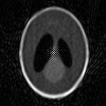
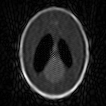
Add results

diff --git a/scripts/MAP2D.m b/scripts/MAP2D.m
@@ -17,7 +17,7 @@ max_angle_err = 1;
 max_shift_err = 1;
 resolution_angle = 0.5;
 resolution_space = 1;
-no_of_iterations = 5;
+no_of_iterations = 3;
 mask=ones(size(P));
 n = size(P, 1);
 L_pad = 260; 
@@ -129,7 +129,7 @@ noise_estimate = mean(noise_estimate(:));
 noise_estimate = repmat(noise_estimate, size(f_projections, 1), 1);
 
 % Calculate the variance of the prior gaussian distribution.
-prior_variance = 1*abs(f_image_estimate).^2;
+prior_variance = 10*abs(f_image_estimate).^2;
 prior_variance = mean(prior_variance(:));
 
 first_orientation = Orientation(first_estimate_theta, first_estimate_shifts);
@@ -252,7 +252,7 @@ for q=1:no_of_iterations
     shift_estimate = correct_shift;
 
     % Calculate the variance of the prior gaussian distribution.
-    prior_variance = 1*abs(f_image_estimate).^2;
+    prior_variance = 10*abs(f_image_estimate).^2;
     prior_variance = mean(prior_variance(:));
 end
 
